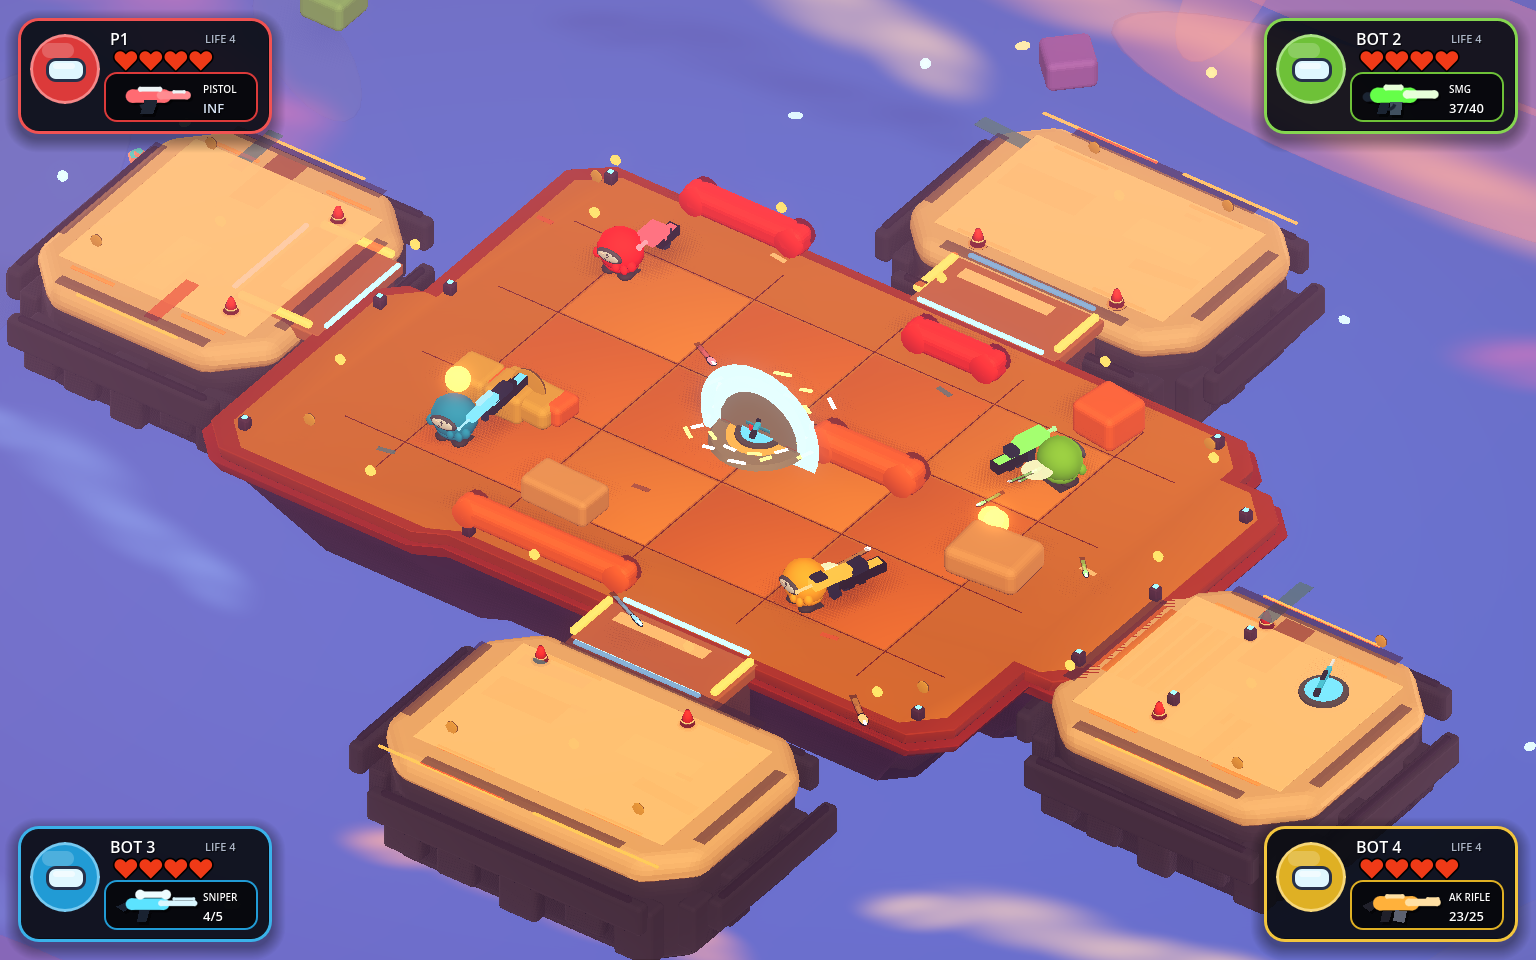
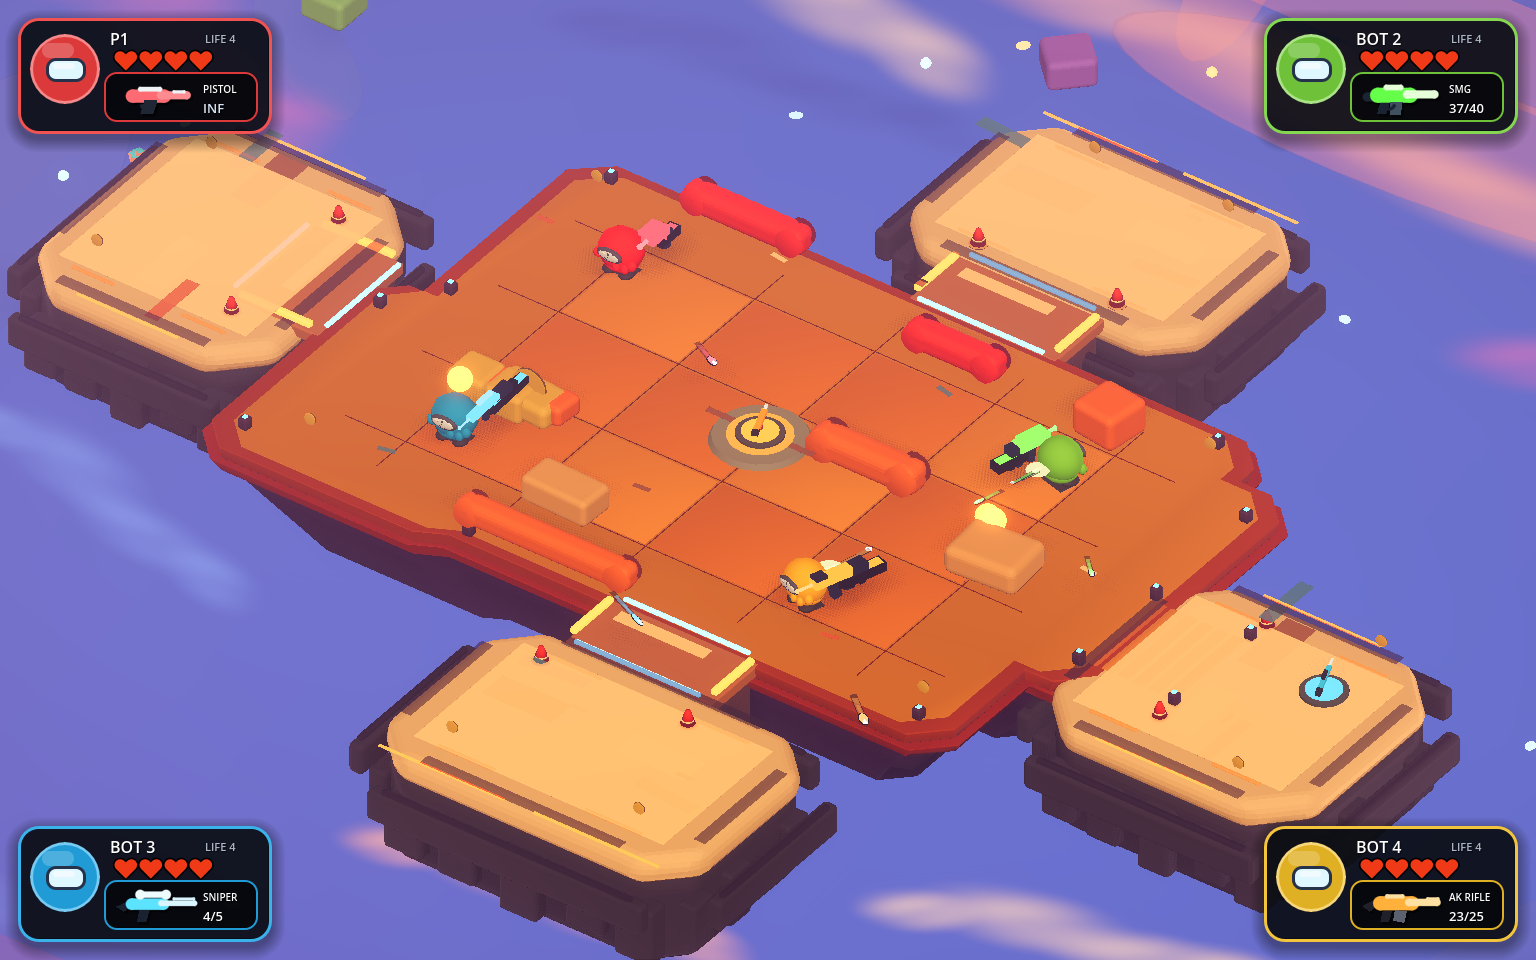
fix: clean sunset v2 pickup markers

diff --git a/docs/art-direction/sunset-open-ringout-v2-central-integration-review.md b/docs/art-direction/sunset-open-ringout-v2-central-integration-review.md
@@ -44,6 +44,8 @@ Total: 29/35
 - Open Ring-Out broad gameplay verifier: PASS.
 - Open Ring-Out A1 Blender visual verifier: PASS, 554 mesh instances and 51 materials.
 - Render-capable gameplay screenshot review at 1536 x 960: PASS for height, overlap, bridge connection, and combat readability.
+- Legacy A1 center halos, burst ticks, and duplicate yellow edge beacons are hidden;
+  the center pickup now uses only the grounded runtime marker.
 
 The next environment step should propagate the approved shell to the four side
 islands and remaining bridges. It should keep the current collision and map
